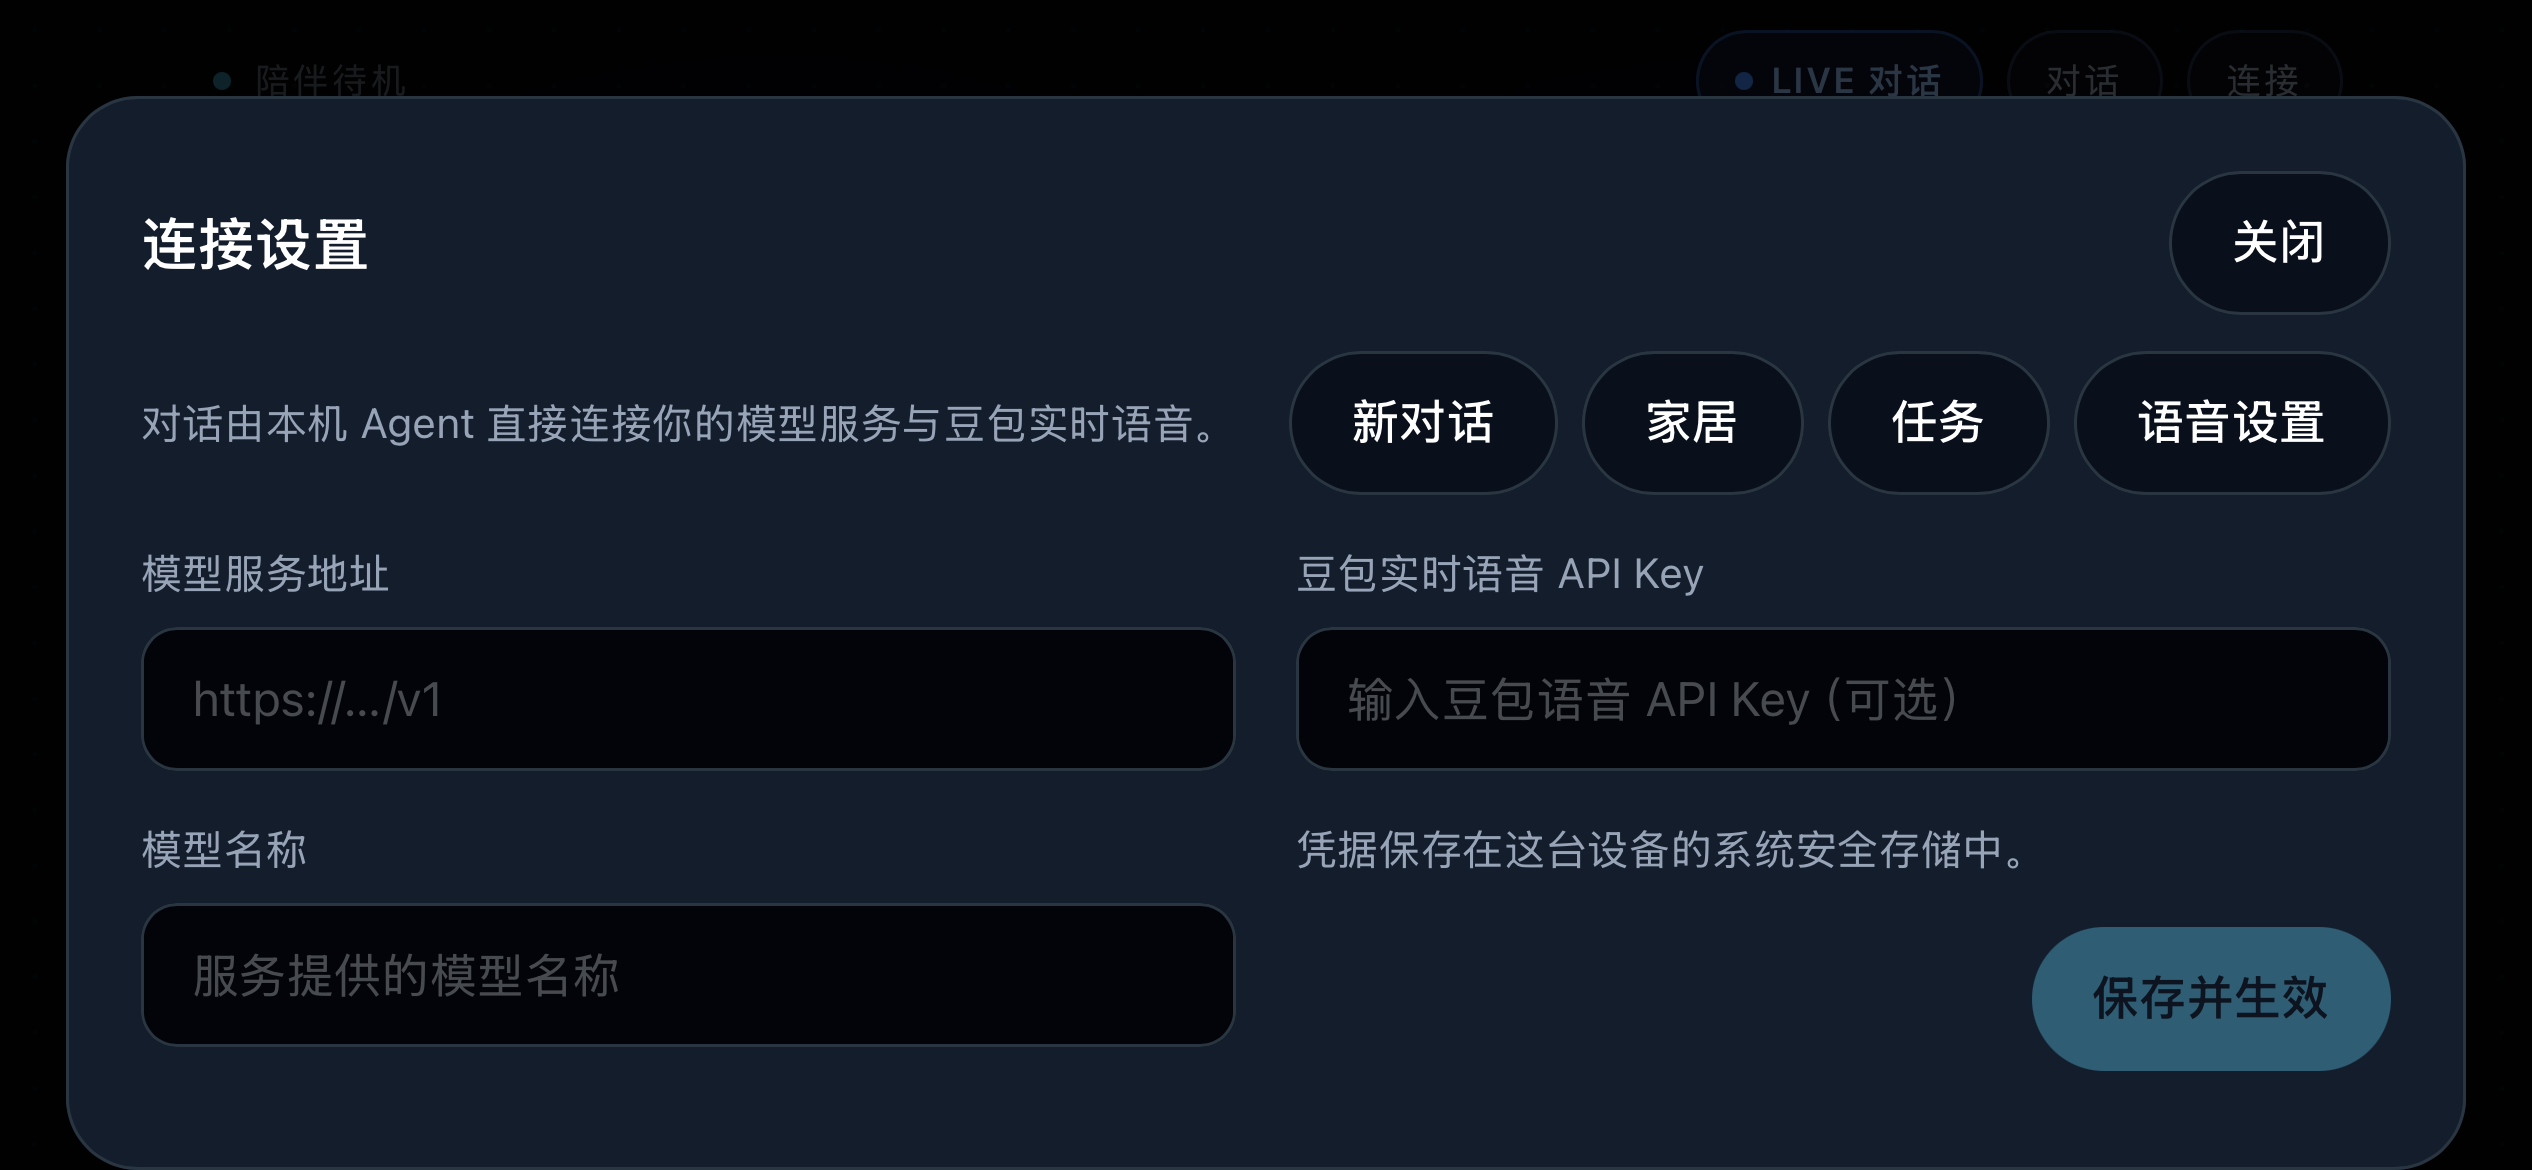
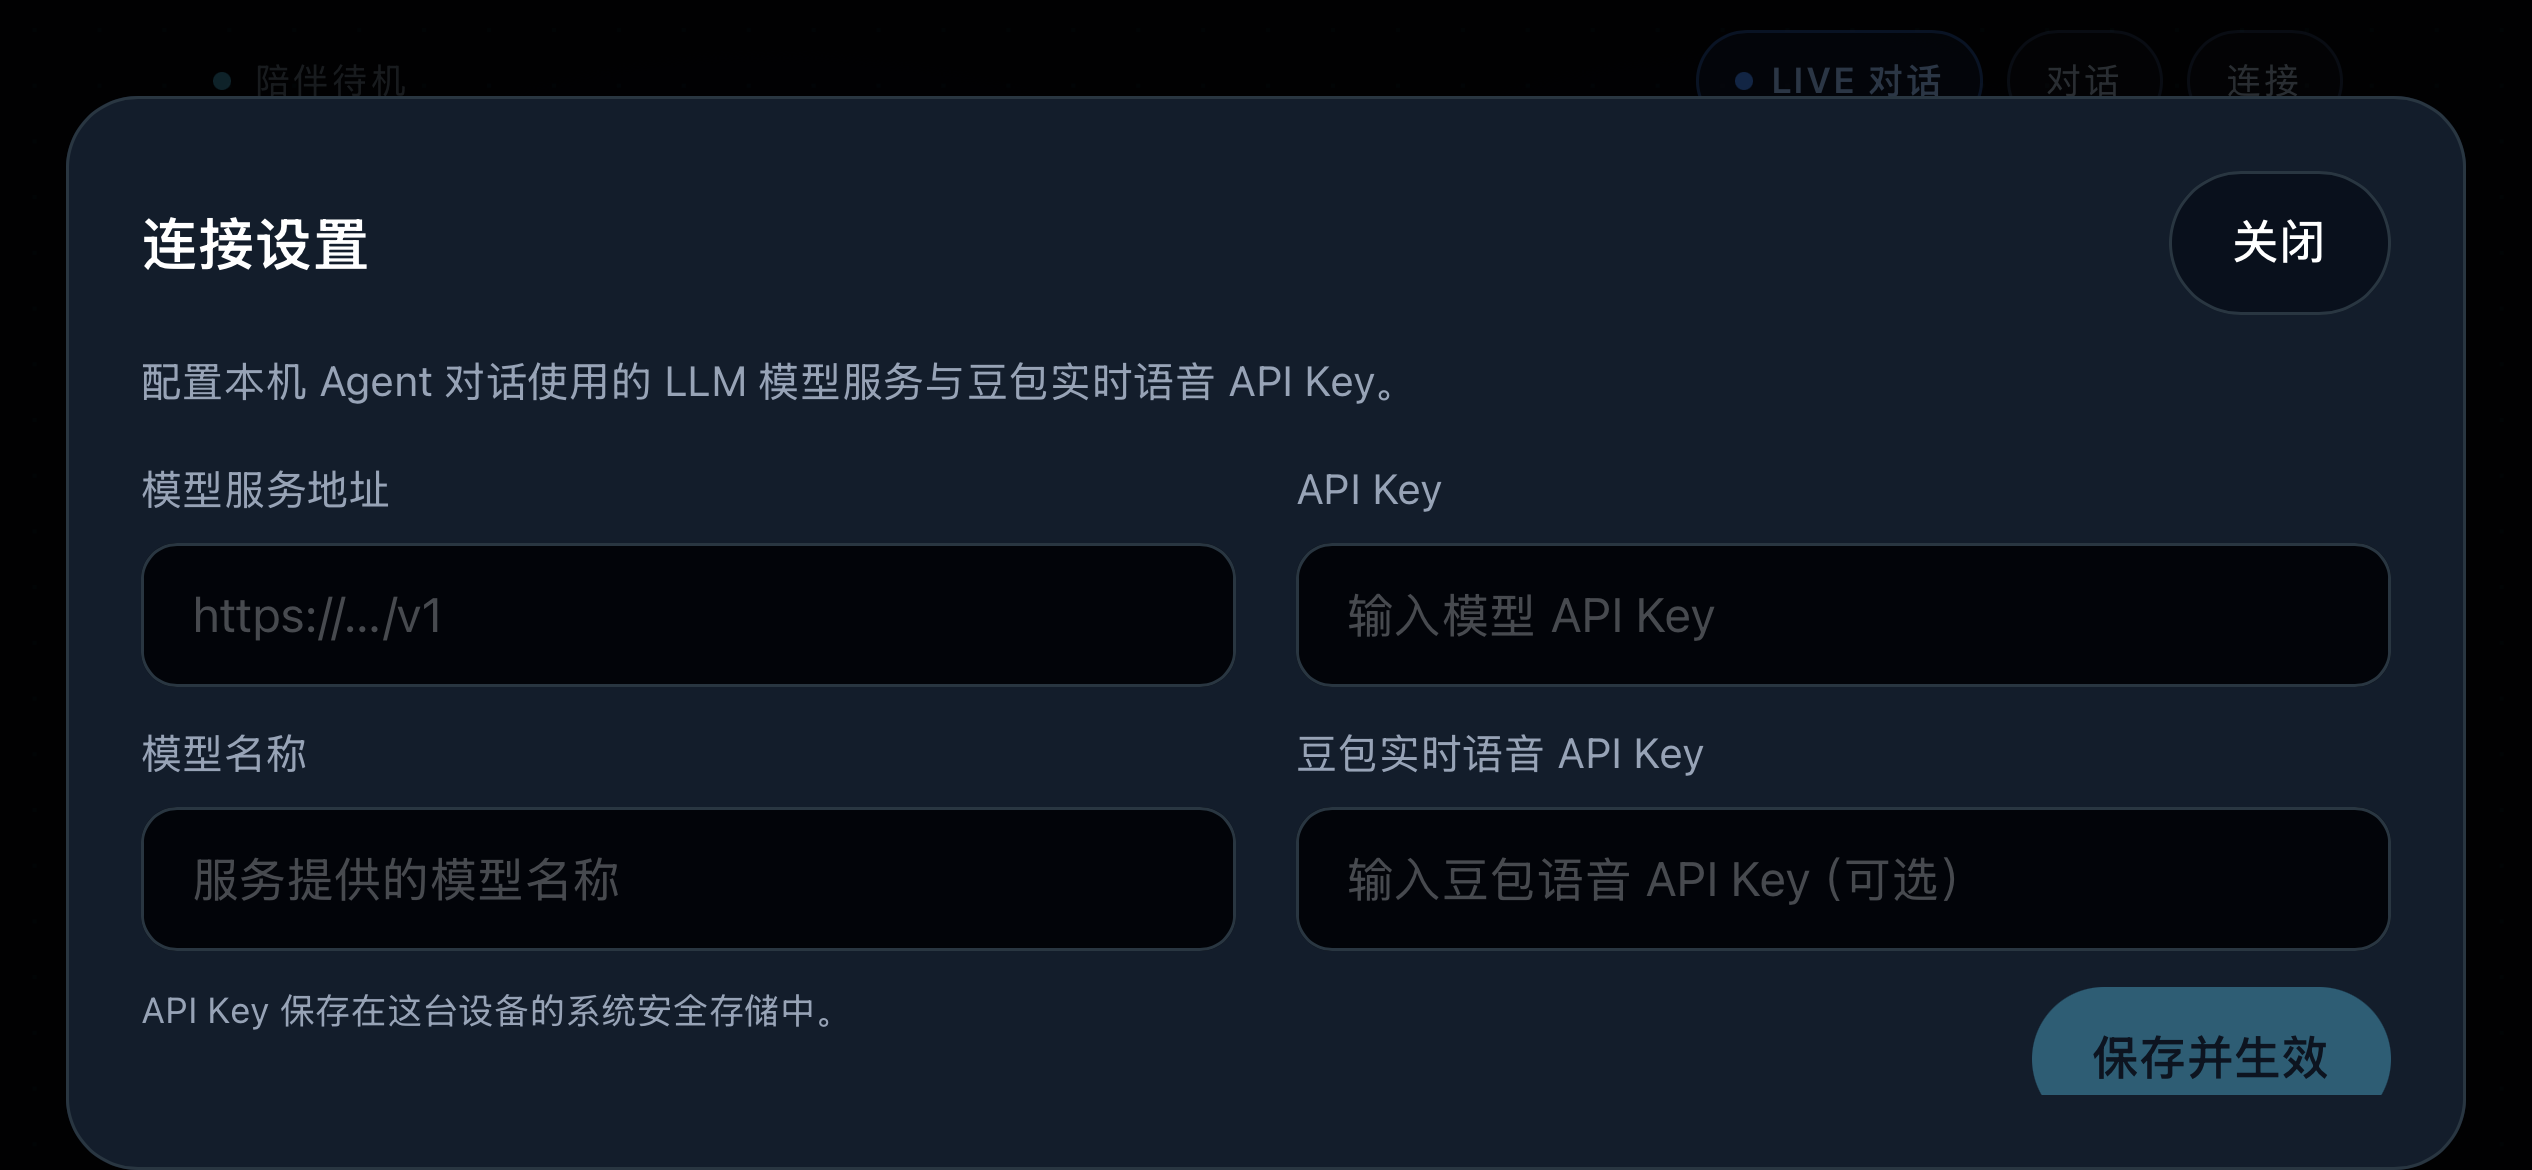
refactor(nsh): simplify connection settings to LLM and voice keys only

diff --git a/apps/nsh/App.tsx b/apps/nsh/App.tsx
@@ -9,9 +9,6 @@ import {
   TextField,
   WakeGuideBar,
 } from "./ui/Controls";
-import { VoicePanel } from "./ui/VoicePanel";
-import { HomePanel } from "./ui/HomePanel";
-import { TasksPanel } from "./ui/TasksPanel";
 import { RobotFace } from "./ui/RobotFace";
 
 function App() {
@@ -27,9 +24,6 @@ function App() {
     configError = signal("");
   const questionAnswers = signal<Record<string, string>>({});
   const responseOpen = signal(false);
-  const tasksOpen = signal(false);
-  const homeOpen = signal(false);
-  const voiceOpen = signal(false);
 
   const voiceActive = () =>
     ["connecting", "listening", "speaking"].includes(store.voiceState().phase);
@@ -39,7 +33,6 @@ function App() {
     if (phase === "speaking") return "打断";
     if (phase === "connecting") return "连接中";
     if (phase === "listening") return "LIVE 中";
-    if (store.voiceTask()) return "确认任务";
     return "LIVE 对话";
   };
 
@@ -60,8 +53,6 @@ function App() {
         return "读取文件";
       case "bash":
         return "运行本机 Shell 命令";
-      case "control_home_device":
-        return "控制家居设备";
       default:
         return `执行 ${String(details?.toolName ?? "本机操作")}`;
     }
@@ -104,10 +95,6 @@ function App() {
   const toggleLiveVoice = () => {
     store.dismissWakeGuide();
     if (!store.ready()) return;
-    if (store.voiceTask()) {
-      voiceOpen.set(true);
-      return;
-    }
     const phase = store.voiceState().phase;
     if (phase === "speaking") {
       store.interruptVoice();
@@ -143,6 +130,9 @@ function App() {
       }
       if (hasVoiceField) {
         store.configureVoice(voiceKey().trim());
+        if (!hasModelFields) {
+          store.notify("语音配置已保存");
+        }
       }
       apiKey.set("");
       voiceKey.set("");
@@ -280,7 +270,7 @@ function App() {
                 autoCorrect={false}
                 autoCapitalize="none"
                 maxLength={8192}
-                placeholder="直接对 LOOI 说（如：打开书房灯 / 查看当前目录）"
+                placeholder="直接对 LOOI 说（如：查看当前目录 / 帮我写一段脚本）"
                 class="flex-1 h-9 rounded-xl border border-transparent bg-transparent px-2 text-foreground text-sm focus:border-ring"
               />
               <Button
@@ -343,32 +333,10 @@ function App() {
         </View>
       </View>
 
-      <VoicePanel
-        open={voiceOpen()}
-        store={store}
-        onClose={() => voiceOpen.set(false)}
-      />
-      <HomePanel
-        open={homeOpen()}
-        store={store}
-        onClose={() => homeOpen.set(false)}
-      />
-      <TasksPanel
-        open={tasksOpen()}
-        store={store}
-        onClose={() => tasksOpen.set(false)}
-        onNewConversation={() => {
-          if (store.newConversation()) {
-            tasksOpen.set(false);
-            draft.set("");
-          }
-        }}
-      />
-
       <Panel
         open={settings()}
         title="连接设置"
-        height={540}
+        height={500}
         wide={true}
         dismissible={!saving()}
         onClose={() => {
@@ -379,58 +347,16 @@ function App() {
           }
         }}
       >
-        <View class="flex-row flex-wrap items-center justify-between gap-2">
-          <Text class="text-muted-foreground text-sm">
-            对话由本机 Agent 直接连接你的模型服务与豆包实时语音。
-          </Text>
-          <View class="flex-row flex-wrap gap-2">
-            <ActionButton
-              label="新对话"
-              disabled={!store.ready() || store.busy()}
-              onPress={() => {
-                if (store.newConversation()) {
-                  draft.set("");
-                  settings.set(false);
-                }
-              }}
-            />
-            <ActionButton
-              label="家居"
-              testID="home-settings"
-              disabled={!store.ready() || store.busy()}
-              onPress={() => {
-                settings.set(false);
-                setTimeout(() => homeOpen.set(true), 50);
-              }}
-            />
-            <ActionButton
-              label="任务"
-              testID="task-history"
-              disabled={!store.ready()}
-              onPress={() => {
-                settings.set(false);
-                store.refreshTasks();
-                setTimeout(() => tasksOpen.set(true), 50);
-              }}
-            />
-            <ActionButton
-              label="语音设置"
-              testID="voice-settings"
-              disabled={!store.ready()}
-              onPress={() => {
-                settings.set(false);
-                setTimeout(() => voiceOpen.set(true), 50);
-              }}
-            />
-          </View>
-        </View>
+        <Text class="text-muted-foreground text-sm">
+          配置本机 Agent 对话使用的 LLM 模型服务与豆包实时语音 API Key。
+        </Text>
         <View
           style={{
             flexDirection: windowSize().width >= 680 ? "row" : "column",
             gap: 20,
           }}
         >
-          <View class="flex-1 gap-4" style={{ minWidth: 0 }}>
+          <View class="flex-1 gap-3" style={{ minWidth: 0 }}>
             <TextField
               label="模型服务地址"
               testID="model-url"
@@ -445,6 +371,11 @@ function App() {
               onChange={(value) => model.set(value)}
               placeholder="服务提供的模型名称"
             />
+            <Text class="text-muted-foreground text-xs">
+              API Key 保存在这台设备的系统安全存储中。
+            </Text>
+          </View>
+          <View class="flex-1 gap-3" style={{ minWidth: 0 }}>
             <TextField
               label="API Key"
               testID="model-key"
@@ -460,8 +391,6 @@ function App() {
                   : "输入模型 API Key"
               }
             />
-          </View>
-          <View class="flex-1 gap-4" style={{ minWidth: 0 }}>
             <TextField
               label="豆包实时语音 API Key"
               testID="voice-key"
@@ -477,9 +406,6 @@ function App() {
                   : "输入豆包语音 API Key（可选）"
               }
             />
-            <Text class="text-muted-foreground text-sm">
-              凭据保存在这台设备的系统安全存储中。
-            </Text>
             <If when={configError()}>
               <Text class="text-destructive text-sm" role="alert">
                 {configError()}
@@ -569,26 +495,6 @@ function App() {
                 "本机操作",
             )}
           </Text>
-          <If
-            when={
-              store.interaction()?.details.toolName === "control_home_device"
-            }
-          >
-            <View selectable={true}>
-              <Text class="text-foreground text-sm">
-                {JSON.stringify(
-                  store.interaction()?.details.arguments,
-                  null,
-                  2,
-                )}
-              </Text>
-              <Text class="text-muted-foreground text-sm">
-                {store.homeConfiguration().mode === "simulation"
-                  ? "仅演示设备，不会控制真实家居。"
-                  : "将操作当前连接中的设备；结果以实际回读为准。"}
-              </Text>
-            </View>
-          </If>
           <If when={store.interaction()?.details.operation === "write"}>
             <Text class="text-muted-foreground text-sm">写入内容</Text>
             <View class="rounded-xl bg-background p-3" selectable={true}>

diff --git a/apps/nsh/runtime/application.ts b/apps/nsh/runtime/application.ts
@@ -86,7 +86,12 @@ export class MobileRuntime {
     assertFreshUiAction(action);
     if (action.ui_session_id !== this.uiSessionId)
       throw new Error("页面已过期，请重新打开");
-    return this.home.configure(input);
+    const result = await this.home.configure(input);
+    if (this.config && !this.closed) {
+      await this.executor?.close();
+      this.executor = this.createExecutor(this.config);
+    }
+    return result;
   }
   async connectHome() {
     if (this.loginPending) throw new Error("请先完成或取消米家登录");
@@ -271,6 +276,7 @@ export class MobileRuntime {
   }
 
   private createExecutor(config: ModelConfiguration): PiAgentExecutor {
+    const homeEnabled = this.home.configuration().mode !== "disabled";
     return new PiAgentExecutor({
       ...config,
       stateDirectory: "/home/agent",
@@ -279,8 +285,8 @@ export class MobileRuntime {
       approvalUiSessionId: this.uiSessionId,
       requireApprovalForAllWrites: true,
       maxConcurrentTasks: 1,
-      additionalTools: [...this.homeTools()],
-      approvalRequiredTools: ["control_home_device"],
+      additionalTools: homeEnabled ? [...this.homeTools()] : [],
+      approvalRequiredTools: homeEnabled ? ["control_home_device"] : [],
     });
   }
 

diff --git a/apps/nsh/runtime/voice.ts b/apps/nsh/runtime/voice.ts
@@ -167,13 +167,13 @@ export class VoiceRuntime {
           session: {
             model: "1.2.6.1",
             instructions:
-              "你是 LOOI，用简短自然的中文回答，不念括号舞台提示。需要执行任务或控制家居时使用 run_agent_task。手机会请用户确认后由本机 Agent 执行；没有实际工具回执不得声称成功。演示设备必须明确说是演示。不自动重试未知结果。",
+              "你是 LOOI，用简短自然的中文回答，不念括号舞台提示。需要执行本机任务时使用 run_agent_task，由本机 Agent 执行；没有实际工具回执不得声称成功。不自动重试未知结果。",
             tools: [
               {
                 type: "function",
                 name: "run_agent_task",
                 description:
-                  "提交本机任务。需用户在手机确认，控制还需单次审批；只根据返回结果回答。",
+                  "提交本机任务由 Agent 执行（写入或命令需用户在手机单次审批）；只根据返回结果回答。",
                 parameters: {
                   type: "object",
                   properties: { prompt: { type: "string" } },

diff --git a/apps/nsh/scripts/nsh.ts b/apps/nsh/scripts/nsh.ts
@@ -77,21 +77,8 @@ const standardUiSteps =
     'await app.press("connection-settings")',
     'await app.waitFor("连接设置")',
     `await app.screenshot(${JSON.stringify(resolve(repo, `docs/artifacts/nsh-node-compat/${uiTarget}-settings.png`))})`,
-    'await app.press("task-history")',
-    'await app.waitFor("任务记录")',
-    'await app.press("开始新对话")',
-    'await app.press("connection-settings")',
-    'await app.waitFor("连接设置")',
-    'await app.press("home-settings")',
-    'await app.waitFor("家居连接")',
-    'await app.scroll("panel-content", 240)',
-    'await app.press("home-simulation")',
-    'await app.waitFor("演示书房吸顶灯")',
-    'await app.scroll("panel-content", -500)',
-    `await app.screenshot(${JSON.stringify(resolve(repo, `docs/artifacts/nsh-node-compat/${uiTarget}-home-simulation.png`))})`,
-    'await app.press("关闭家居")',
-    'await app.waitFor("家居尚未连接")',
     'await app.press("关闭")',
+    'await app.waitFor("陪伴待机")',
   ].join("\n") + "\n";
 const uiSteps = command.startsWith("ui-miot-") ? [
   'await app.waitFor("陪伴待机", {timeout:15000})',

diff --git a/apps/nsh/store.ts b/apps/nsh/store.ts
@@ -177,19 +177,19 @@ export function createAppStore() {
             face.set(driver.getState());
           }
         },
-        requestTask: (prompt) =>
-          new Promise((resolve, reject) => {
-            if (!alive || pendingVoice || voiceExecuting || busy()) {
-              reject(new Error("已有任务，请稍后"));
-              return;
-            }
-            voiceTask.set(prompt);
-            pendingVoice = {
-              resolve,
-              reject,
-              timer: setTimeout(() => cancelVoiceTask(), 60000),
-            };
-          }),
+        requestTask: async (prompt) => {
+          if (!alive || voiceExecuting || busy()) {
+            throw new Error("已有任务，请稍后");
+          }
+          voiceExecuting = true;
+          try {
+            const success = await api.send(prompt, true);
+            if (!success) throw new Error("任务未完成");
+            return message();
+          } finally {
+            voiceExecuting = false;
+          }
+        },
         cancelTask: cancelVoiceTask,
       });
       voiceConfigured.set(voice.configuration().hasKey);

diff --git a/apps/nsh/native/android-test/com/superlooi/nsh/test/UiProbe.java b/apps/nsh/native/android-test/com/superlooi/nsh/test/UiProbe.java
@@ -26,22 +26,10 @@ public final class UiProbe extends Instrumentation {
             tapText("对话"); waitText("发送", 5000);
             tapText("对话");
             tapText("连接"); waitText("连接设置", 5000);
-            tapText("任务"); waitText("任务记录", 5000);
-            tapText("开始新对话"); SystemClock.sleep(600);
-            tapText("连接"); waitText("连接设置", 5000);
-            tapText("家居"); waitText("家居连接", 5000);
-            scrollTo("离线演示"); tapText("离线演示");
-            SystemClock.sleep(500); scrollTo("演示书房吸顶灯"); waitText("演示书房吸顶灯", 5000);
-            scrollTo("关闭家居"); tapText("关闭家居");
-            scrollTo("登录米家");
-            tapDescription("米家服务区域"); waitText("新加坡", 5000); tapText("新加坡");
-            SystemClock.sleep(400); tapText("登录米家");
-            waitText("取消米家登录", 15000); tapText("取消米家登录");
-            SystemClock.sleep(300); scrollTo("米家登录已取消");
-            waitText("米家登录已取消", 10000);
-            scrollTo("关闭家居"); tapText("关闭家居");
+            waitText("豆包实时语音 API Key", 5000);
             tapText("关闭");
-            result.putString("result", "PASS native Android pure face, inline ask bar, tasks/new conversation, home simulation and MIoT region/native login/cancel through system input");
+            waitText("陪伴待机", 5000);
+            result.putString("result", "PASS native Android pure face, inline ask bar, and LLM/voice connection settings through system input");
             finish(-1, result);
         } catch (Throwable error) {
             result.putString("result", "FAIL " + error.getClass().getSimpleName() + ": " + error.getMessage());

diff --git a/apps/nsh/tests/native_compat.rs b/apps/nsh/tests/native_compat.rs
@@ -38,17 +38,8 @@ fn real_app_task_and_home_panels() -> Result<(), String> {
     app.press("compose")?;
     app.press("connection-settings")?;
     app.wait_for_within("连接设置", Duration::from_secs(5))?;
-    app.press("task-history")?;
-    app.wait_for_within("任务记录", Duration::from_secs(5))?;
-    app.press("开始新对话")?;
-    app.press("connection-settings")?;
-    app.wait_for_within("连接设置", Duration::from_secs(5))?;
-    app.press("home-settings")?;
-    app.wait_for_within("家居尚未连接", Duration::from_secs(5))?;
-    app.press("home-simulation")?;
-    // Desktop headless deliberately has no mobile credential backend. The UI
-    // must report the failure and retain disabled mode, never pretend connected.
-    app.wait_for_within("home_credential_store_failed", Duration::from_secs(5))?;
-    app.wait_for_within("家居尚未连接", Duration::from_secs(5))?;
+    app.wait_for_within("豆包实时语音 API Key", Duration::from_secs(5))?;
+    app.press("关闭")?;
+    app.wait_for_within("陪伴待机", Duration::from_secs(5))?;
     Ok(())
 }
